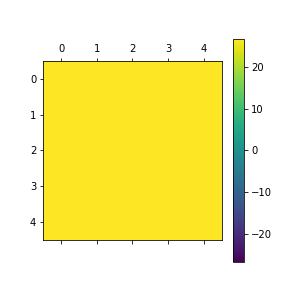
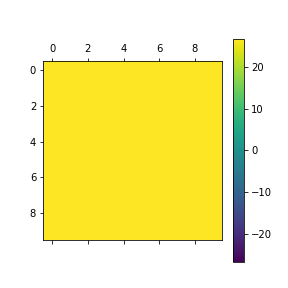
atualização

diff --git a/Trabalho1/trabalho.py b/Trabalho1/trabalho.py
@@ -24,7 +24,7 @@ dt = 1 #espaco de tempo
 n = 10 #quantidade de pontos
 
 passos = len(arr_u) #quantos passos no tempo vai dar
-temperatura_inicial = 26.8
+temperatura_inicial = 26.22
 
 h = 20.0/n #espacamento da grade
 
@@ -159,7 +159,7 @@ Com:
 def criaMatrizC(pos, n, h, dt):
     u = arr_u[pos]
     v = arr_v[pos]
-    print(u, v)
+    #print(u, v)
     
     matriz = matrizEulerEstatico(n, u, v, h)
     #matriz = matrizEuler(n, u, v, h, dt)
@@ -228,6 +228,9 @@ for i in range(passos):
     
 
 
+#pega um ponto que nao esta no meio
+iP = int(n * 0.25)
+jP = int(n * 0.45)
 
 #imprime e separa pontos pra testar a estabilidade
 for k in range(passos+1):
@@ -237,29 +240,29 @@ for k in range(passos+1):
     Mb = Tb[k].reshape((n, n))
     Mc = Tc[k].reshape((n, n))
 
-    #pega um ponto que nao esta no meio
-    i = int(n * 0.25)
-    j = int(n * 0.45)
     
      #tira um ponto pra testar a estabilidade
     posicao_estabilidade[k] = k * dt
-    vetor_estabilidade[k] = Ma[i][j]
-    vetor_estabilidade_mais20[k] = Mb[i][j]
-    vetor_estabilidade_menos20[k] = Mc[i][j]
+    vetor_estabilidade[k] = Ma[iP][jP]
+    vetor_estabilidade_mais20[k] = Mb[iP][jP]
+    vetor_estabilidade_menos20[k] = Mc[iP][jP]
     
     #aqui imprime a matriz numa imagem colorida
-    
-    #plt.switch_backend('Agg')
+    '''
+    plt.switch_backend('Agg')
     plt.matshow(Ma, vmin=-temperatura_inicial, vmax=temperatura_inicial)
     #plt.matshow(Ma)
     plt.colorbar()
     plt.show()
-    #plt.savefig("matriz/matriz" + str(k) + ".png")
-    
+    plt.savefig("matriz/matriz" + str(k) + ".png")
+    '''
     temperatura_media[k] = np.mean(Ma)
         
 
 #------ Imprime o grafico de teste de estabilidade -------
+
+temperatura_exata = [26.22,26.83,25.96,22.93,21.84,21.46,20.5]
+print("Vetor estabilidade:",vetor_estabilidade)
     
 figure(num=None, figsize=(8, 6), dpi=72, facecolor='w', edgecolor='k')
 
@@ -272,6 +275,9 @@ plt.plot(
 plt.plot(
     posicao_estabilidade, vetor_estabilidade_menos20, 'b--' 
     )
+plt.plot(
+    posicao_estabilidade, temperatura_exata, 'k-' 
+    )
 
 plt.ylabel(u"temperatura") #esse 'u' antes da string é pra converter o texto pra unicode
 plt.xlabel(u"tempo")
@@ -279,10 +285,11 @@ plt.xlabel(u"tempo")
 
 #legendas do grafico    
 a_line = mlines.Line2D([], [], color='red', marker='', linestyle='-', markersize=0, label=u'Temperatura')
-b_line = mlines.Line2D([], [], color='green', marker='', linestyle='--', markersize=0, label=u'Temperatura + 5 graus)')
-c_line = mlines.Line2D([], [], color='blue', marker='', linestyle='--', markersize=0, label=u'Temperatura - 5 graus)')
+b_line = mlines.Line2D([], [], color='green', marker='', linestyle='--', markersize=0, label=u'Temperatura +5 graus')
+c_line = mlines.Line2D([], [], color='blue', marker='', linestyle='--', markersize=0, label=u'Temperatura -5 graus')
+d_line = mlines.Line2D([], [], color='black', marker='', linestyle='-', markersize=0, label=u'Temperatura exata (INPE)')
 
-plt.legend(handles=[a_line, b_line, c_line], loc='lower left')
+plt.legend(handles=[a_line, b_line, c_line, d_line], loc='lower left')
 
 '''Posicoes da legenda 
     upper right
@@ -297,8 +304,9 @@ plt.legend(handles=[a_line, b_line, c_line], loc='lower left')
     center
 '''
 
-plt.title(u"Temperatura no ponto pesquisado", )
+plt.title(u"Temperatura no ponto ("+str(iP)+","+str(jP)+") (n="+str(n)+")", )
 plt.show()
+
 #plt.savefig("previsao.png")
 
 

diff --git a/INPE/grafico.py b/INPE/grafico.py
@@ -17,8 +17,8 @@ figure(num=None, figsize=(8, 6), dpi=72, facecolor='w', edgecolor='k')
 
 arquivo = open("BRB1805ED.csv", 'r');
 
-x = np.empty((0,), dtype=np.float128)
-y = np.empty((0,), dtype=np.float128)
+x = np.empty((0,), dtype=np.float64)
+y = np.empty((0,), dtype=np.float64)
 
 #tive que fazer isso pra rodar no Linux
 conteudo = arquivo.readlines();
@@ -38,7 +38,7 @@ else:
 #------ filtro do grafico --------
 ano = 2018
 dia = 121 #01/05/2018
-hora_inicio = 19
+hora_inicio = 18
 hora_fim = 24
 
 def corrigeNumero(dado):
@@ -69,7 +69,7 @@ for linha in linhas:
             if(d_min >= hora_inicio*60 and d_min <= hora_fim*60):
                 a = corrigeNumero(dados[3])
                 b = corrigeNumero(dados[10])
-                x = np.append(x, np.float64(a))
+                x = np.append(x, (np.float64(a)/60)-18)
                 y = np.append(y, np.float64(b))
                 
                 if((d_min-1) % 60 == 0 or d_min==1439):
@@ -89,29 +89,11 @@ plt.plot(
     x, y, 'r-' 
     )
 
-plt.ylabel(u"tp_sfc") #esse 'u' antes da string é pra converter o texto pra unicode
-plt.xlabel(u"min")
+plt.ylabel(u"temperatura") #esse 'u' antes da string é pra converter o texto pra unicode
+plt.xlabel(u"tempo")
 
 
-#legendas do grafico    
-a_line = mlines.Line2D([], [], color='red', marker='', markersize=0, label=u'Temperatura')
-b_line = mlines.Line2D([], [], color='green', marker='', markersize=0, label=u'Temperatura + 5 graus)')
-c_line = mlines.Line2D([], [], color='blue', marker='', markersize=0, label=u'Temperatura - 5 graus)')
-
-plt.legend(handles=[a_line, b_line, c_line], loc='center')
-
-'''Posicoes da legenda 
-    upper right
-    upper left
-    lower left
-    lower right
-    right
-    center left
-    center right
-    lower center
-    upper center
-    center
-'''
-
-plt.title(u"Temperatura no ponto pesquisado", )
+plt.title(u"Temperatura da estação", )
 plt.show()
+
+;26.8;0.448;118.5;18.0;0;26.8;-0.213767124596;0.393710066473

diff --git a/Trabalho1/trabalho_estabilidade.py b/Trabalho1/trabalho_estabilidade.py
@@ -14,14 +14,16 @@ from matplotlib.pyplot import figure
 
 figure(num=None, figsize=(8, 6), dpi=72, facecolor='w', edgecolor='k')
 
+arr_u = [-0.1, -0.05, -0.025, -0.0125]
+arr_v = [0.5, 0.25, 0.125, 0.0625]
 
 #Definicao de valores
 dt = 1 #espaco de tempo 
-n = 5 #quantidade de pontos
-u = -0.1
-v = 0.5/2
+n = 10 #quantidade de pontos
+u = arr_u[3]
+v = arr_v[0]
 
-passos = 100 #quantos passos no tempo vai dar
+passos = 200 #quantos passos no tempo vai dar
 temperatura_inicial = 26.8
 
 h = 10.0/n #espacamento da grade
@@ -218,6 +220,10 @@ for i in range(passos):
 
 
 
+#pega um ponto que nao esta no meio
+iP = int(n * 0.25)
+jP = int(n * 0.45)
+
 #imprime e separa pontos pra testar a estabilidade
 for k in range(passos+1):
     
@@ -226,15 +232,12 @@ for k in range(passos+1):
     Mb = Tb[k].reshape((n, n))
     Mc = Tc[k].reshape((n, n))
 
-    #pega um ponto que nao esta no meio
-    i = int(n * 0.75)
-    j = int(n * 0.75)
     
      #tira um ponto pra testar a estabilidade
     posicao_estabilidade[k] = k * dt
-    vetor_estabilidade[k] = Ma[i][j]
-    vetor_estabilidade_mais20[k] = Mb[i][j]
-    vetor_estabilidade_menos20[k] = Mc[i][j]
+    vetor_estabilidade[k] = Ma[iP][jP]
+    vetor_estabilidade_mais20[k] = Mb[iP][jP]
+    vetor_estabilidade_menos20[k] = Mc[iP][jP]
     
     #aqui imprime a matriz numa imagem colorida
     '''
@@ -249,7 +252,7 @@ for k in range(passos+1):
         
 
 #------ Imprime o grafico de teste de estabilidade -------
-    
+plt.switch_backend('Agg')
 figure(num=None, figsize=(8, 6), dpi=72, facecolor='w', edgecolor='k')
 
 plt.plot(
@@ -286,7 +289,6 @@ plt.legend(handles=[a_line, b_line, c_line], loc='upper right')
     center
 '''
 
-plt.title(u"Temperatura no ponto pesquisado", )
+plt.title(u"Temperatura no ponto ("+str(iP)+","+str(jP)+") (n="+str(n)+")", )
 plt.show()
-#plt.savefig("previsao.png")
-
+plt.savefig("estabilidade/u_" + str(u) + "v_" +str(v) + ".png")

diff --git a/Trabalho1/erro/erro.py b/Trabalho1/erro/erro.py
@@ -1,0 +1,26 @@
+# -*- coding: utf-8 -*-
+"""
+Created on Wed Feb 20 10:11:43 2019
+
+@author: gabic
+"""
+import sys
+import numpy as np
+import matplotlib.pyplot as plt
+import matplotlib.lines as mlines
+from matplotlib.pyplot import figure
+
+temperatura_exata =np.array([26.22,26.83,25.96,22.93,21.84,21.46,20.5], np.float64) 
+vetor_estabilidade=np.array([ 26.22,27.12337588,27.54682948,25.74461591,19.93455332,15.57173741,10.57125107], np.float64)
+hora=[0,1,2,3,4,5,6]
+#erro=vetor_estabilidade-temperatura_exata
+#print(erro)
+#erro2=vetor_estabilidade[1]-temperatura_exata
+erro1=vetor_estabilidade[0]-temperatura_exata
+print(erro1)
+erro2=vetor_estabilidade[1]-temperatura_exata
+erro3=vetor_estabilidade[2]-temperatura_exata
+erro4=vetor_estabilidade[3]-temperatura_exata
+erro5=vetor_estabilidade[4]-temperatura_exata
+erro6=vetor_estabilidade[5]-temperatura_exata
+erro7=vetor_estabilidade[6]-temperatura_exata
